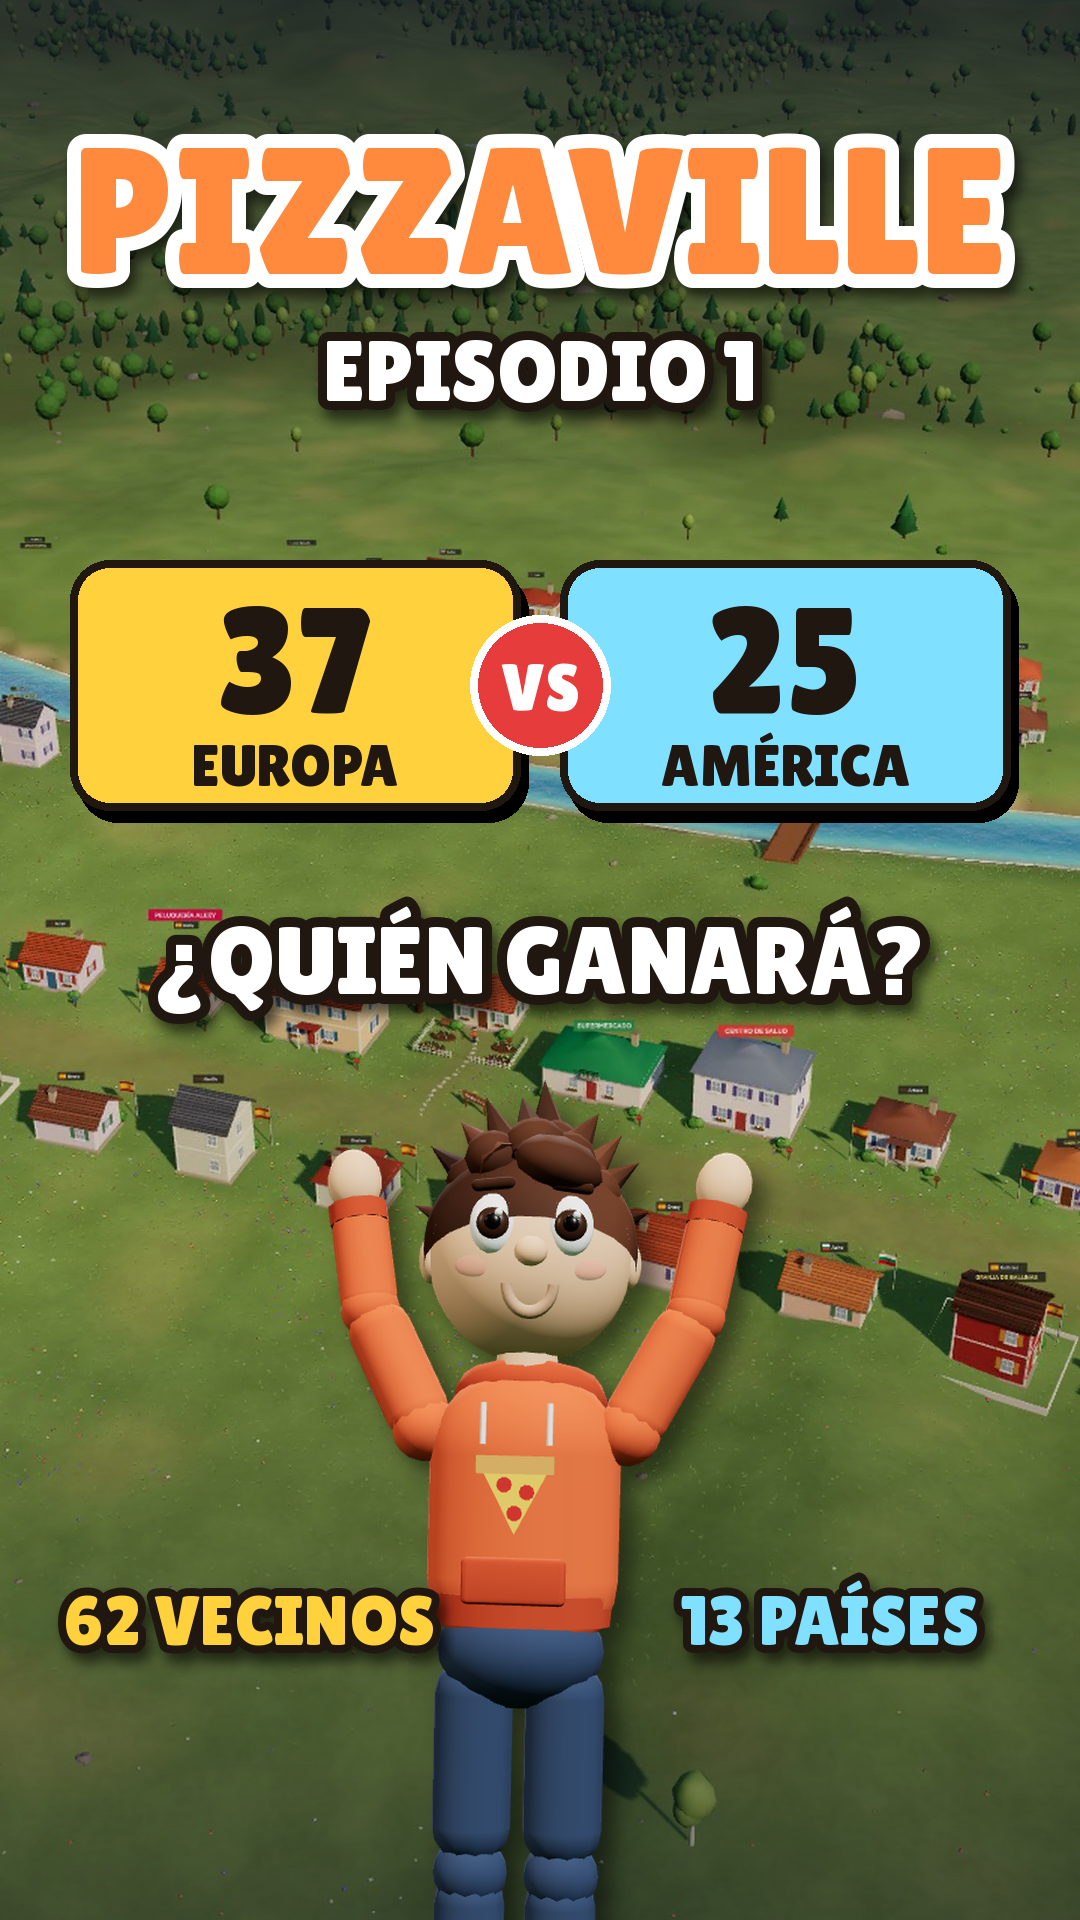
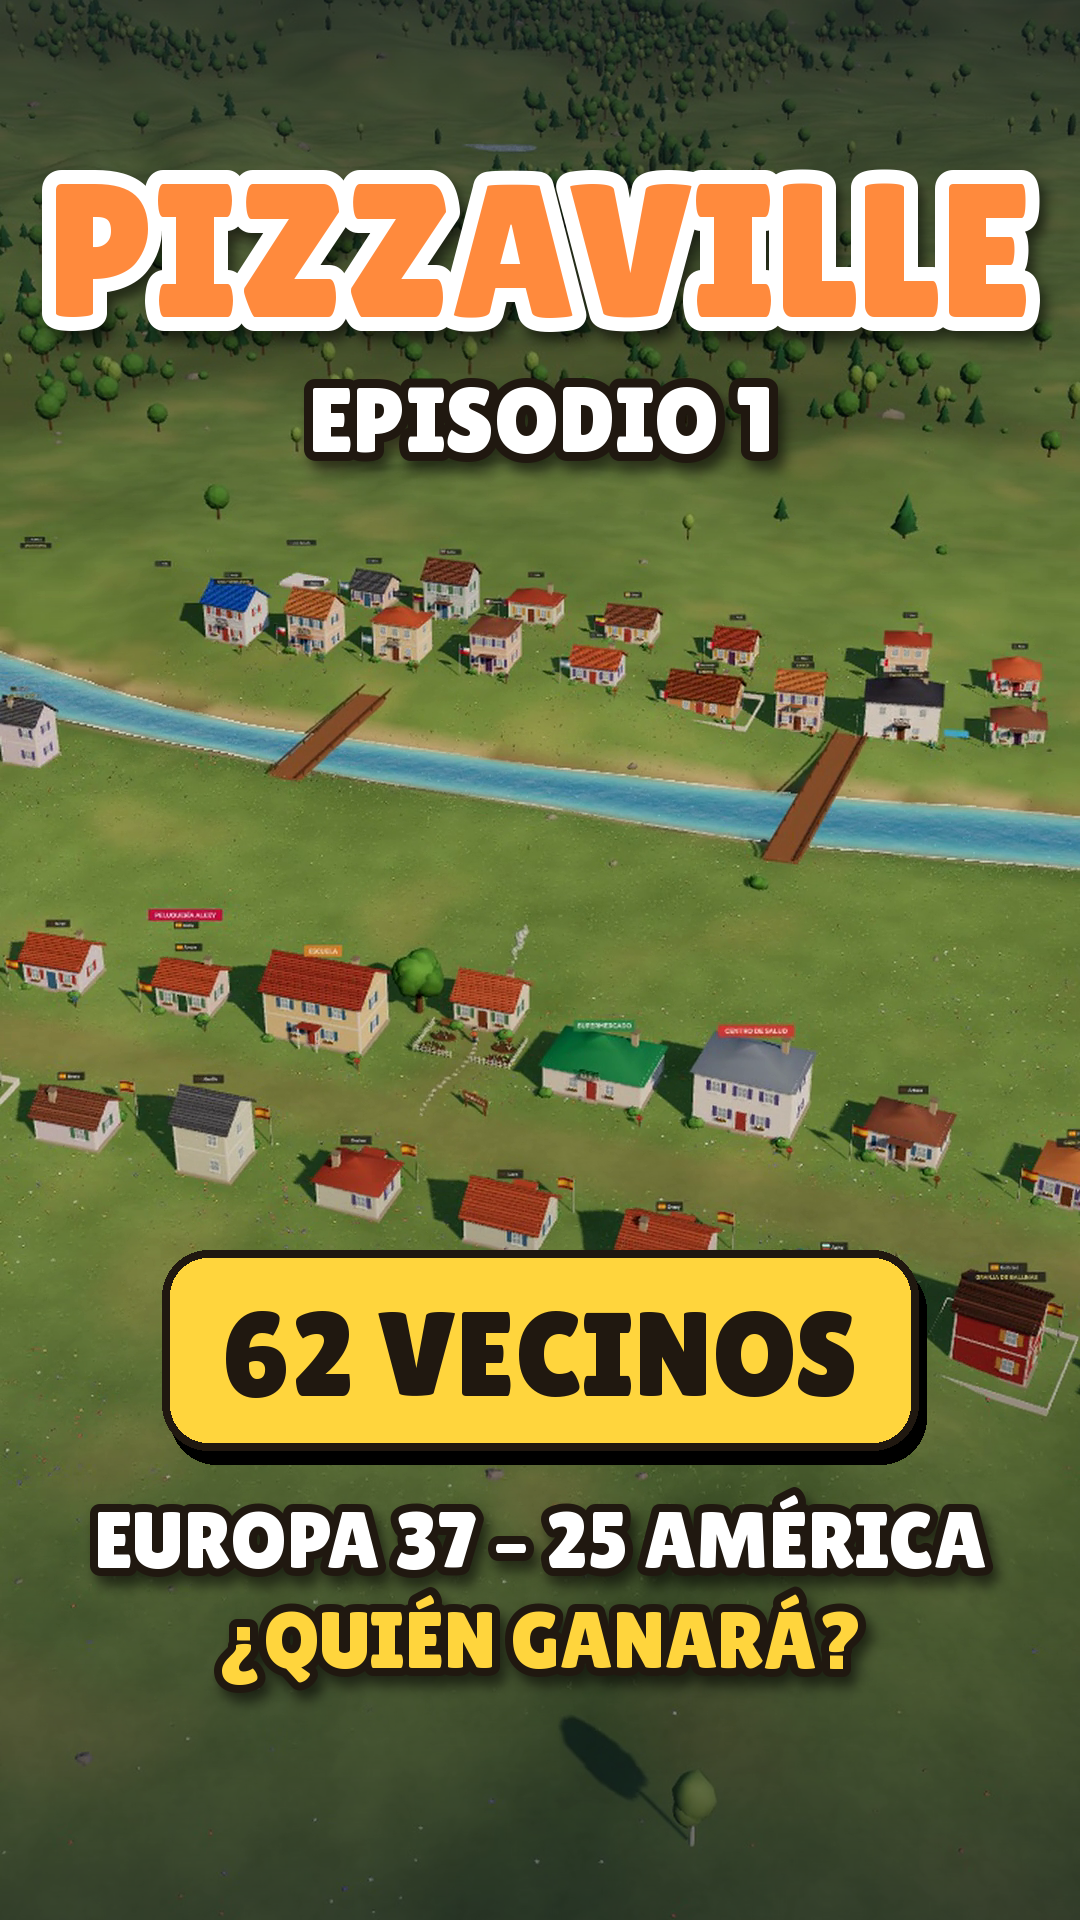
Pizzaville ep001: portada con el estilo de serie (igual que ep0)
Claude-Session: https://claude.ai/code/session_01CB9p5jQER6TqQ5hK8WYEb3

diff --git a/pizzaville/scripts/portada_serie.py b/pizzaville/scripts/portada_serie.py
@@ -1,0 +1,31 @@
+from PIL import Image, ImageDraw, ImageFont, ImageFilter
+im = Image.open('/tmp/claude-0/c1_4.5.png').convert('RGB')
+W, H = im.size
+F = 'scripts/fonts/LilitaOne.ttf'
+# soft dark gradient top and bottom for legibility
+g = Image.new('L', (1, H))
+for y in range(H):
+    a = max(0, 1 - y / 620) * 170 + max(0, (y - 1150) / 770) * 150
+    g.putpixel((0, y), int(min(200, a)))
+im = Image.composite(Image.new('RGB', (W, H), (15, 20, 35)), im, g.resize((W, H)))
+d = ImageDraw.Draw(im)
+def text(xy, s, size, fill, stroke=10, sc=(32, 24, 16), anchor='mm'):
+    f = ImageFont.truetype(F, size)
+    sh = Image.new('RGBA', im.size, (0, 0, 0, 0)); ImageDraw.Draw(sh).text((xy[0] + 6, xy[1] + 10), s, font=f, fill=(0, 0, 0, 140), anchor=anchor, stroke_width=stroke, stroke_fill=(0, 0, 0, 140))
+    im.paste(sh.filter(ImageFilter.GaussianBlur(6)), (0, 0), sh.filter(ImageFilter.GaussianBlur(6)))
+    ImageDraw.Draw(im).text(xy, s, font=f, fill=fill, anchor=anchor, stroke_width=stroke, stroke_fill=sc)
+text((W // 2, 250), 'PIZZAVILLE', 190, (255, 138, 61), 14, (255, 255, 255))
+text((W // 2, 420), 'EPISODIO 1', 92, (255, 255, 255), 9)
+# badge
+f = ImageFont.truetype(F, 120)
+s = '62 VECINOS'
+bw = d.textlength(s, font=f) + 120
+bx0, by0 = (W - bw) / 2, 1250
+d = ImageDraw.Draw(im)
+d.rounded_rectangle((bx0 + 8, by0 + 14, bx0 + bw + 8, by0 + 214), 46, fill=(0, 0, 0))
+d.rounded_rectangle((bx0, by0, bx0 + bw, by0 + 200), 46, fill=(255, 213, 61), outline=(32, 24, 16), width=8)
+d.text((W // 2, by0 + 104), s, font=f, fill=(32, 24, 16), anchor='mm')
+text((W // 2, 1540), 'EUROPA 37 – 25 AMÉRICA', 80, (255, 255, 255), 8)
+text((W // 2, 1640), '¿QUIÉN GANARÁ?', 80, (255, 213, 61), 8)
+im.save('/tmp/claude-0/portada_ep001_serie.png')
+im.resize((360, 640)).save('/tmp/claude-0/cover_s.png')
